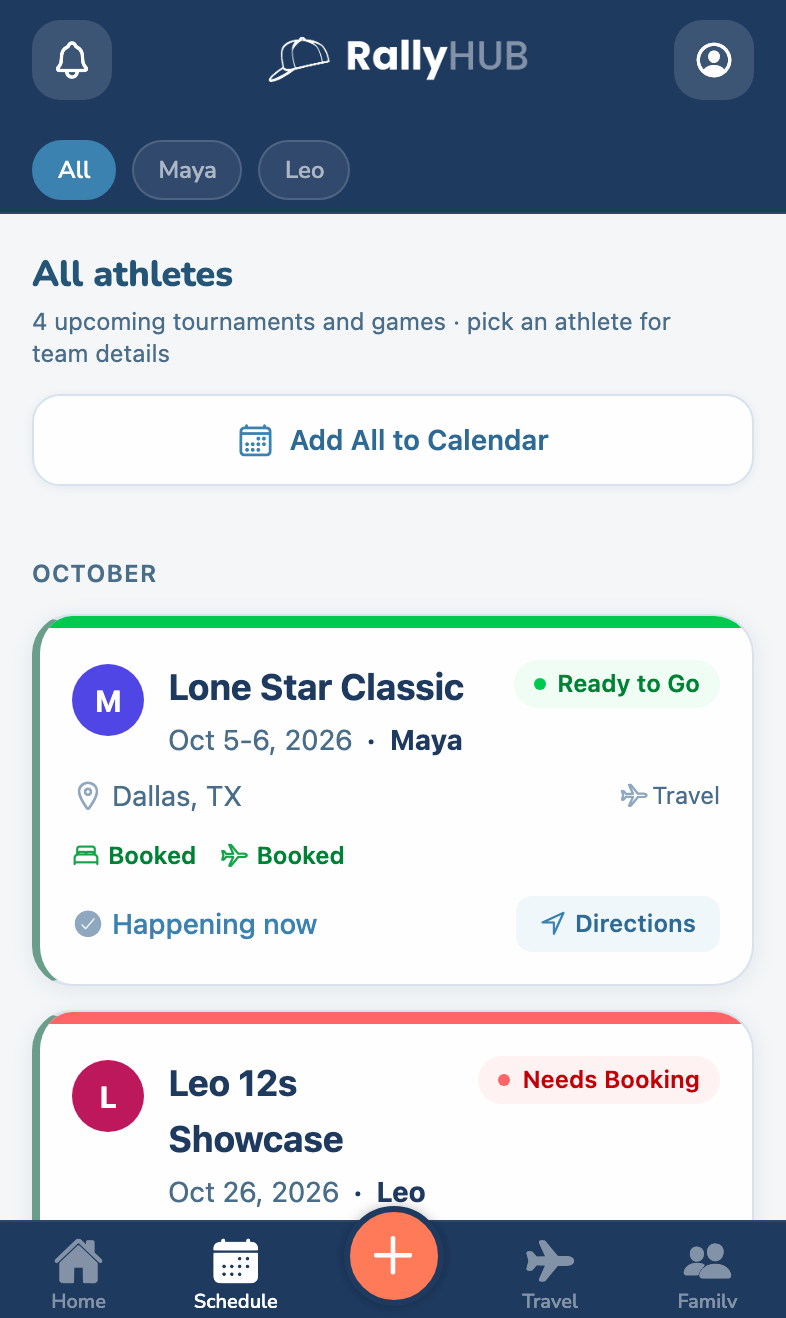
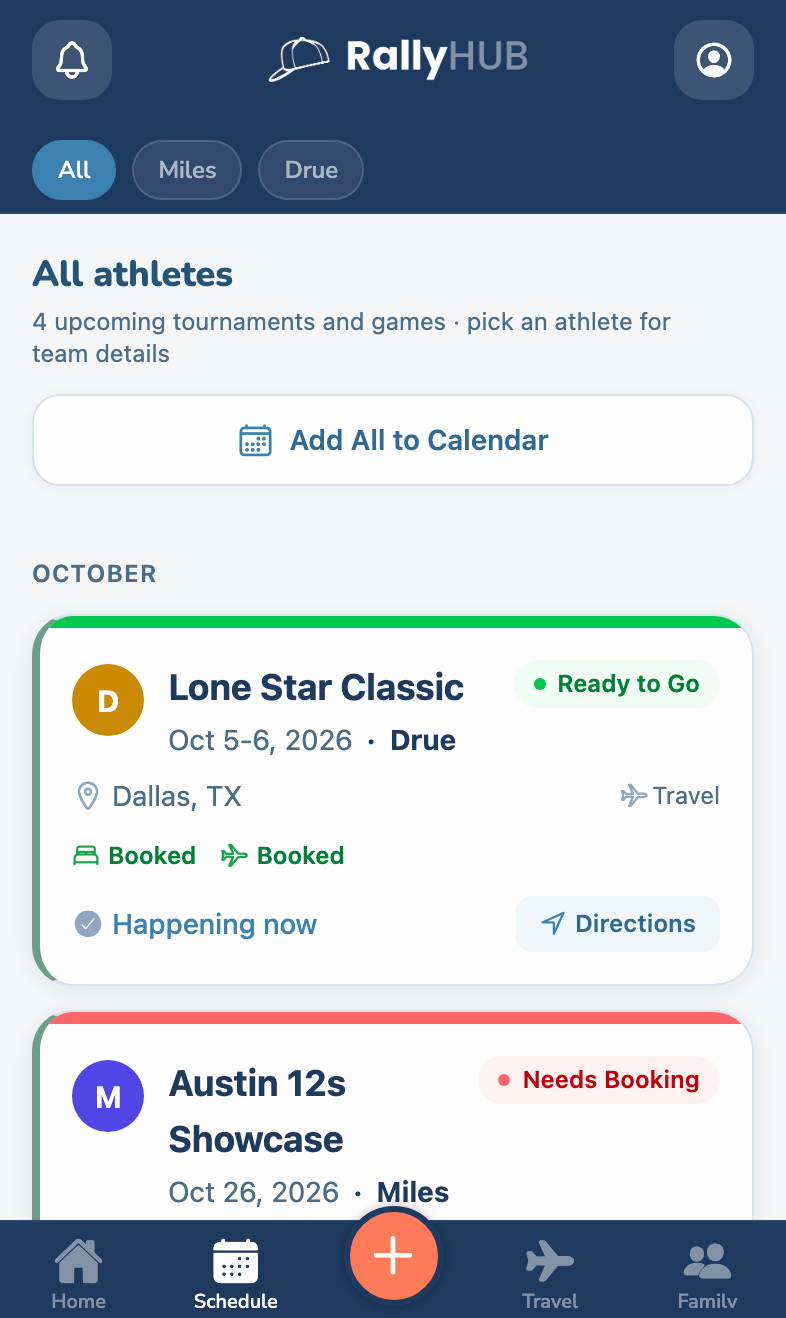
Homepage screenshots: demo family is Drue & Miles

diff --git a/public/homepage.html b/public/homepage.html
@@ -525,7 +525,7 @@ footer{padding:30px 20px;}
     </div>
     <div class="feat-right feat-right-shot">
       <div class="feat-right-label">Your season at a glance</div>
-      <div class="phone phone-shot phone-shot-feature"><img src="/img/app-schedule.png" alt="RallyHUB Schedule: every athlete's tournaments and games by month, with All / Maya / Leo filters" loading="lazy" width="393" height="660"></div>
+      <div class="phone phone-shot phone-shot-feature"><img src="/img/app-schedule.png" alt="RallyHUB Schedule: every athlete's tournaments and games by month, with All / Drue / Miles filters" loading="lazy" width="393" height="660"></div>
     </div>
   </div>
 </div>
@@ -579,7 +579,7 @@ footer{padding:30px 20px;}
     </div>
     <div class="feat-right feat-right-shot">
       <div class="feat-right-label">What Grandma sees in her app</div>
-      <div class="phone phone-shot phone-shot-feature"><img src="/img/app-fan.png" alt="A grandparent's view in RallyHUB: Maya and Leo's tournaments by month with Watch live, Tickets and Schedule buttons" loading="lazy" width="393" height="660"></div>
+      <div class="phone phone-shot phone-shot-feature"><img src="/img/app-fan.png" alt="A grandparent's view in RallyHUB: Drue and Miles's tournaments by month with Watch live, Tickets and Schedule buttons" loading="lazy" width="393" height="660"></div>
     </div>
   </div>
 </div>
